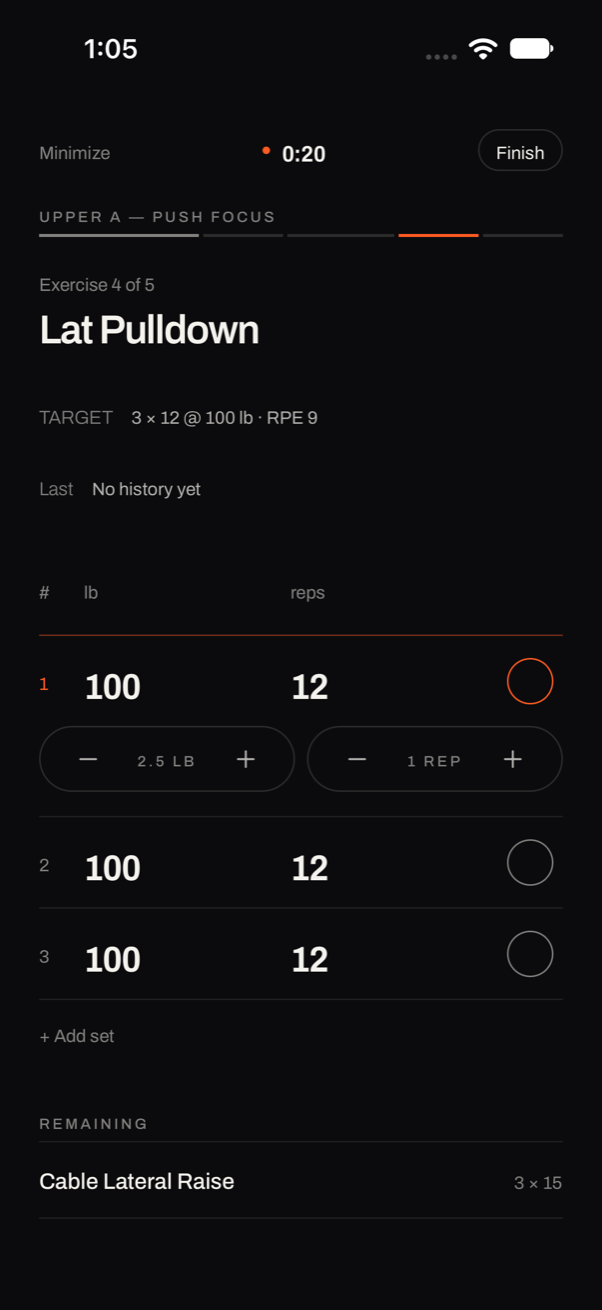
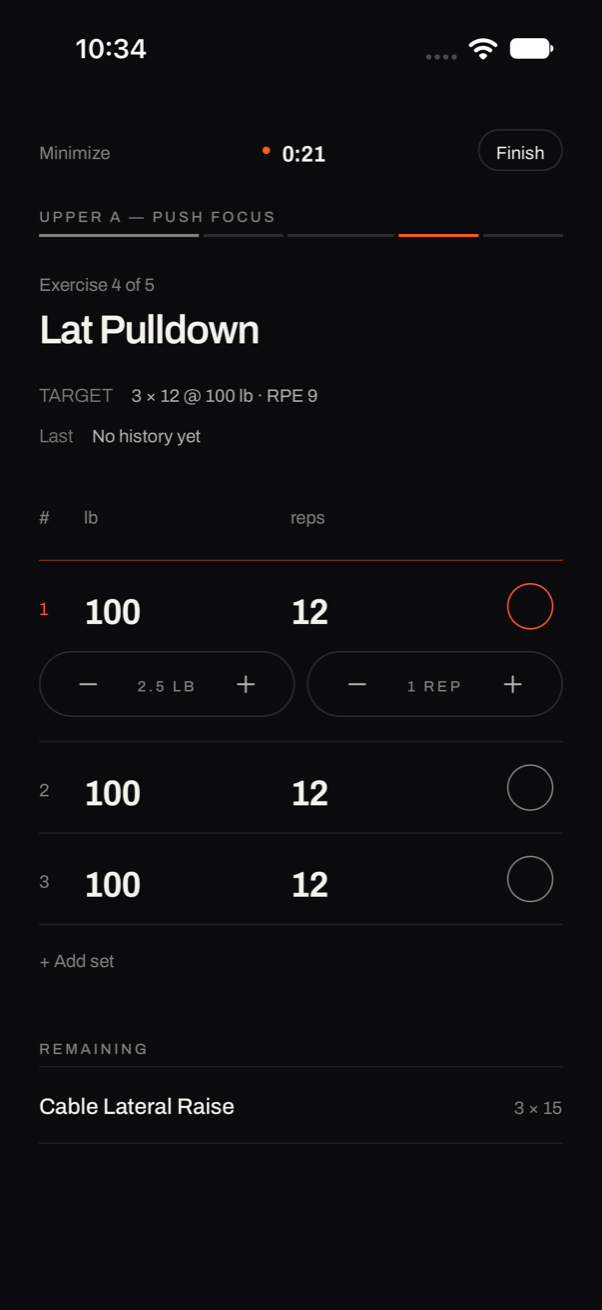
docs(workout): the notes and the screenshots of fix round 1 (F10 S5)
What changed per criterion, the four sanctioned edits to the tester's files,
the new tests and their mutants, the ten references re-recorded and why, the
one-second guard for the product owner, lines per file, the runs, and three
open questions. The fifteen screenshots are refreshed from the final build.

Claude-Session: https://claude.ai/code/session_015npsnSVLWhCqpwt8obusuV

diff --git a/tasks/features/F10-active-workout/implementation-notes.md b/tasks/features/F10-active-workout/implementation-notes.md
@@ -4667,3 +4667,180 @@ On the final tests, product code as at `f0318dd`. Simulator runs through the loc
 An earlier red run of mine was the test's, not the code's: the orange check compared the image's lines with
 frames the reader had placed elsewhere in its window (a marker over the page now gives its top), and the second
 touch of finding 6's test was first aimed at an element that no longer existed.
+
+## Slice S5 — fix round 1 (G1 implementer, 2026-10-10)
+
+On `2ff8d7c` (the slice, the tester's round and the rulings), in the worktree `F10-s5`. Criteria 13 to 21 are the
+brief's "Plan amendments — slice S5 after round 1". Code, tests and references are commit `f1719d6`; this section
+and the screenshots follow it. Paths are under `LedgerKit/` unless they start with `Apps/` or `tasks/`.
+
+### What changed, per criterion
+
+| Criterion | Change | Where |
+|---|---|---|
+| 13 reworded | The store's text now says what drops a tap: a refusal (with the alert), and "Discard" for the workout it ends; nothing else. | `WorkoutStore`'s type comment |
+| 14 Minimize keeps the taps before it (F10-S5-1) | With no tap waiting, "Minimize" closes the cover at once, as before. With taps waiting it sets `exitWhenDrained`; nothing answers meanwhile (the header and the page are disabled, as while a discard runs); the pump applies the taps and then closes the cover. **When one of them is refused the cover stays up** with the alert, so the lifter sees that a set was not saved; "Minimize" can be tapped again. No task outlives the view: the cover is still up while the taps are applied (each is one local write). | `WorkoutStore+Pump.swift` `minimize()`, `drain()` |
+| 15 a restart plans on the newest workout (F10-S5-2, -3) | `follow()` forgets `ahead` when it starts. The store knows whether it is hearing the session (`isHearingTheSession`: from the first update of the stream being followed until that stream is left); `drain()` applies nothing while it is not, and the first update wakes the pump. So a tap that waited is planned on the session's workout, in either order of the root's two tasks. | `WorkoutStore.follow()`, `drain()` |
+| 16 "REMAINING" lists only what can be logged (F10-S5-4, S-1) | After the shown exercise, only exercises with a set not logged; "n × m" counts the rows that are not drop sets (an added set still counts, rule 26). **With no exercise shown** (the cursor names no row and nothing was chosen) every exercise is still listed, so that one with no set can be reached for "+ Add set": the orchestrator's ruling on the tester's line 142. | `WorkoutPresentation.page` |
+| 17 the page starts at the top (F10-S5-5, S-2) | `WorkoutScreen` holds a `ScrollPosition`; when `page.card?.exerciseIndex` changes it scrolls to the top edge. A change within the exercise leaves the page where it is. The scroll view is the same view before and after (no `.id`), so VoiceOver's place is not thrown away with it. | `Views/WorkoutScreen.swift` |
+| 18 a second touch does not undo a set just logged (F10-S5-6, S-3) | In the plan: an un-log whose moment is at or after the set's `doneAt` and less than `WorkoutEditPlan.undoGuard` (one second) after it comes to nothing. A set logged by a clock ahead of this one (a peer's) is not guarded. Two moments are compared; nothing counts time. | `WorkoutEdit.swift` `unlog` |
+| 19 room between the two facts (S-5, N-9) | The two `FactLine`s stand `LedgerSpacing.m` apart at every size (`xs` inside one, where they stack). The 44 pt frames on the TARGET line and on the whole "Last" line are gone: neither is a control, and "Repeat" keeps its own 44 pt. | `Views/ExerciseCard.swift` |
+| 20 housekeeping | The plan's comment on the weight's floor says that the engine and the plan both hold it and why the plan must (N-4). The store's comments on the queue say what happens on a cancellation (N-2, below). The tester's test title reads 54 (sanctioned edit 4). | `WorkoutEdit.swift`, `WorkoutStore+Pump.swift` |
+
+Also changed, because the rulings touch it:
+
+- **A call cancelled with the cover counts as sent** (the orchestrator's ruling on my question; N-2): the tap in
+  flight is taken off the queue and is not sent again by the next pump, the drain stops there, and **the taps
+  behind it stay queued** for the next pump. The session's host completes a call in a task of its own, so the tap
+  is not lost on the app's host. Pinned by the tester's `pumpCancelled_whileACallWaits` (no alert, nothing
+  applied twice, the new pump carries on) and by mutant R9 below.
+- **A tap is not taken off a queue that was emptied and refilled while it was being applied** (the tester's note
+  N-b): the queue counts the times it was emptied as a whole (`queueEpoch`).
+- **The header's current segment** is the shown exercise while it has a set to log (one rule, with or without a
+  choice); no existing expectation changed.
+- **The pump is in `WorkoutStore+Pump.swift`** (the store's file passed the lint's 300 lines). For that, the
+  store's `dialog`, `selection`, `exitWhenDrained`, its queue fields, `leave`, `isShowingWorkout`, the logger and
+  three dependencies are no longer `private`: they are the store's own, used from its extension in another file,
+  and a comment says so. No other file writes them.
+
+**Not changed:** the reviewer's N-1 (a refusal over the finish dialog: S7's), N-5 and N-6 (where the rules live:
+when the watch needs them), N-7 and N-8 (the defaulted `selection:` and the `Dialog` alias: both are used by the
+tester's files), N-12 (accepted by the reviewer); the tester's notes N-a, N-c, N-d.
+
+### The tester's seven tests
+
+All pass unedited: `minimize_keepsTheTapsMadeBeforeIt`, `pumpRestarted_plansOnTheNewestWorkout`,
+`followRestarted_forgetsTheOldAnswer`, `jump_toAFinishedExercise_isNoDeadEnd`,
+`scroll_returnsToTheTop_whenTheExerciseChanges` (PR lane); `test_jumpFromRemaining_showsTheNewExercisesName`,
+`test_secondTouchOnTheSameCheck_doesNotLoseTheSet` (nightly). The UI test's two touches were inside the one-second
+guard on this run.
+
+### Sanctioned edits to the tester's files
+
+Three of the tester's green tests pinned what criteria 16 and 18 reverse, and one title named the old count. I
+reported each before touching it; the orchestrator ruled all four on 2026-10-10; the tester audits them in round
+2. In `Tests/FeatureWorkoutTests/Adversarial/`:
+
+| # | File and test | Old | New |
+|---|---|---|---|
+| 1 | `WorkoutPageAdversarialTests.page_isTotal` (line 156) | `#expect(listed == Array(state.exercises.indices.filter { $0 > card.exerciseIndex }), "seed \(seed)")` | under a comment, `let stillToDo = state.exercises.indices.filter { index in index > card.exerciseIndex && state.exercises[index].sets.contains { !$0.isDone } }` and `#expect(listed == Array(stillToDo), "seed \(seed)")`. Line 142 ("with no card every exercise is listed") is unchanged and passes |
+| 2 | `WorkoutPageAdversarialTests`, "Kilograms, twelve rows and a drop set in the middle…" (line 75) | `== ["Incline DB Press, 3 × 10"]` | `== ["Incline DB Press, 2 × 10"]` (two working sets and a drop set) |
+| 3 | `WorkoutWalkAdversarialTests.unlog_afterTheEnd_canBeLoggedAgain` (line 100) | `let bench = try await Bench.make()` | under a comment, `let bench = try await Bench.make { $0.exercises[1].sets[2].doneAt = Fixtures.now.addingTimeInterval(-60) }`: the set the test un-logs was logged a minute before, so the un-log is not a second touch. What the test checks is unchanged |
+| 4 | `WorkoutWordsAdversarialTests.catalog_holdsExactlyTheSlicesTexts` | `@Test("The catalog holds the 27 texts and no other")` | `@Test("The catalog holds the 54 texts and no other")` |
+
+No special case for 0 s exists in the product code. The tester's seeded storms also send un-logs at 0 s; they
+compare two runs under the same rule and stay green.
+
+### New tests
+
+| Criterion | Tests |
+|---|---|
+| 14 | `WorkoutStoreMinimizeTests.minimize_whileATapIsRefused_staysAndShowsIt` (the real host, an append refused: the cover stays, the alert shows, a tap made after Minimize was not queued, and with nothing waiting Minimize closes at once); the tester's `minimize_keepsTheTapsMadeBeforeIt` |
+| 15 | the tester's two |
+| 16 | `WorkoutPresentationRemainingTests.remaining_listsOnlyWhatCanBeLogged` (a later exercise with every set logged and one with no set are left out; with nothing left there is no list), `remaining_countsWithoutTheDropSet` (three sets and a drop read "3 × 12", as the card's target; an added set makes it "4 × 12"); `card_noSet_hasNoRow` changed to the new list |
+| 17 | the tester's hosted test; UI `WorkoutLogging` now asserts the title **hittable** after the cursor's move to the next exercise, after a jump, and at the accessibility size with "Exercise 5 of 5" |
+| 18 | `WorkoutUndoTests.unlog_withinASecondOfTheLog_comesToNothing` (pure, nine moments: 0, 0.001, 0.78 and 0.999 s do nothing; 1, 1.001 and 60 s un-log; a set logged 0.5 s and an hour ahead of this clock un-logs), `unlogRightAfterTheLog_keepsTheSet` (through the store, with the injected date); `mixedTaps_areAppliedInOrder` now expects the un-log made in the log's own moment to send nothing; `log_clearsTheChoice_unlogKeepsIt` un-logs a set logged a minute before |
+| 19 | `WorkoutPageLayoutTests.facts_standApart` (five sizes × both widths × Bold Text × right to left, with and without "Repeat": at least `m` between the two facts) |
+
+Moved, unchanged, for the lint's type length: the "REMAINING" tests into `WorkoutPresentationRemainingTests`, the
+un-log's plan test into `WorkoutUndoTests`.
+
+**Checked by breaking the code** (Mac host, each restored; all caught):
+
+| Mutant | Tests that failed |
+|---|---|
+| R1 an un-log always un-logs | `unlog_withinASecondOfTheLog_…`, `unlogRightAfterTheLog_keepsTheSet`, `mixedTaps_areAppliedInOrder` |
+| R2 the guard also holds for a set logged ahead of this clock | `unlog_withinASecondOfTheLog_…` |
+| R3 "REMAINING" lists finished exercises | `remaining_listsOnlyWhatCanBeLogged`, `card_noSet_hasNoRow`, the tester's `jump_toAFinishedExercise_isNoDeadEnd` and `page_isTotal` |
+| R4 "REMAINING" counts the drop set | `remaining_countsWithoutTheDropSet`, the tester's kilograms test |
+| R5 Minimize closes at once | `minimize_whileATapIsRefused_…`, the tester's `minimize_keepsTheTapsMadeBeforeIt` |
+| R6 the kept answer survives a new follow | the tester's `followRestarted_forgetsTheOldAnswer` |
+| R7 taps are planned before the stream is heard | the tester's `pumpRestarted_plansOnTheNewestWorkout` |
+| R8 a refusal under Minimize still closes the cover | `minimize_whileATapIsRefused_…` |
+| R9 a cancelled call is sent again | the tester's `pumpCancelled_whileACallWaits` |
+
+Not mutated: the scroll reset and the facts' spacing (a simulator run each); the tester's hosted scroll test and
+`facts_standApart` failed before the change and pass after it.
+
+### References and screenshots
+
+**Re-recorded: the ten references of this slice**, all of `__Snapshots__/WorkoutSnapshotTests/cover_*`, by deleting
+them and running `WorkoutSnapshotTests` once in the library's default mode (it wrote them and failed), then the
+whole module's suite (passed). Cause: criterion 19 (the gap between the two facts, and no 44 pt frame on them),
+which moves everything under the facts; nothing else in them changed. Looked at: at `.accessibility3` "Last" now
+stands 12 pt under the target's value and 4 pt over its own.
+
+- `cover_logging_matchesReferences.{light,dark}-{large,xLarge}.png` (4)
+- `cover_logging_accessibility3_matchesReference.dark-accessibility3.png`
+- `cover_logging_increasedContrast_matchesReference.light-large-increasedContrast.png`
+- `cover_dropSet_matchesReferences.{light,dark}-large.png` (2)
+- `cover_noHistory_matchesReferences.{light,dark}-large.png` (2)
+
+S4's five header references are unchanged and pass.
+
+`screenshots/s5/`: all fifteen refreshed from the final build (the ten of the running app from the UI test's
+attachments, light and dark; the five reference copies). `app-accessibility3-last-exercise-*` now shows
+"Exercise 5 of 5" and "Cable Lateral Raise" at the top of the page after the jump.
+
+### For the product owner
+
+- **The one-second guard** (criterion 18). The check of a set logged less than a second ago ignores a touch. The
+  prototype has no guard. Nothing is drawn differently during that second: a deliberate undo made that fast simply
+  does nothing, and works on the next touch.
+- **"Minimize" with a change still being saved** waits for it (the buttons dim for that moment), and stays on the
+  workout with "Couldn't save that change" if it fails.
+- No new text. No key was added to the catalog (54).
+
+### Product lines per file
+
+932 in total (877 before; the split is taken past about 1,000). Against `fc8a38f`; the change is this round's.
+
+| File | Lines | This round |
+|---|---|---|
+| `FeatureWorkout/WorkoutStore+Pump.swift` | 95 | new (the pump, moved and grown) |
+| `FeatureWorkout/WorkoutStore.swift` | 149 | −52 |
+| `FeatureWorkout/WorkoutEdit.swift` | 168 | +6 |
+| `FeatureWorkout/WorkoutPresentation+Card.swift` | 158 | +5 |
+| `FeatureWorkout/Views/WorkoutScreen.swift` | 35 | +5 |
+| `FeatureWorkout/Views/ExerciseCard.swift` | 60 | −2 |
+| `FeatureWorkout/WorkoutPresentation+Header.swift` | 46 | −2 |
+| **This round** | | **+55** |
+
+The reviewer expected about +20. The difference is criteria 14 and 15, which the review had as notes: the waiting
+Minimize, the "hearing" flag, the three-way outcome of a tap and the queue's count are about 40 lines.
+
+### Open questions
+
+1. **A stuck page is still possible from outside the page**: the lifter chooses a row of an exercise, and the
+   watch (F17) logs every set of that exercise. The choice stands until a set is logged here, the card shows that
+   exercise with nothing to log, and "REMAINING" lists only later exercises. One phone cannot reach it.
+   Recommendation: with S9 and the question of going back, let a choice give way when its exercise has nothing
+   left to log; I tried it in this round and withdrew it, because the tester's `noSet_addSet` pins that a chosen
+   exercise with no set shows its card.
+2. **"Minimize" waits on a call that never returns.** A host's apply is one local write; if one hung, the cover
+   would stay with its buttons dimmed, as a hung discard already does (S4's decision 12). Recommendation: accept.
+3. **The guard is one second from the set's `doneAt`, which is this device's clock at the log.** A set logged on
+   the watch less than a second ago is guarded here too when the clocks agree. Recommendation: accept.
+
+### The runs
+
+2026-10-10, on the code of `f1719d6` (only this file and the screenshots were added after it). Simulator runs
+through the lock, iPhone 17 (iOS 27.0) and Apple Watch Series 12 46 mm (watchOS 27.0).
+
+| Run | Result |
+|---|---|
+| `scripts/check.sh --fast` | exit 0 in 138 s |
+| `swift test --filter FeatureWorkoutTests` (Mac host) | 245 tests in 36 suites passed (6 s) |
+| `FeatureWorkoutTests` on the simulator (`PR` plan, `-only-testing`) | 286 tests in 42 suites passed (69 s), the tester's five PR-lane tests among them |
+| `LedgerUITests` `WorkoutLogging`, `WorkoutLoggingAdversarial`, `WorkoutAdversarial`, `WorkoutConflictAdversarial` (`Nightly` plan, `-only-testing`, one run) | 7 of 7 passed in 193 s: 2, 3, 1 and 1. `WorkoutLogging` once more in dark for the screenshots: 2 of 2 |
+| `scripts/check.sh` (the full gate) | exit 0 in 842 s, no failing test: lint 86 s, iOS tests 480 s, watchOS tests 250 s, coverage (FeatureWorkout 1,776 of 1,796 lines, 98.88 %) |
+| Nine mutants (Mac host) | each caught (table above) |
+
+Red runs on the way were mine: the first form of `facts_standApart` had an upper bound that "Repeat"'s 44 pt row
+breaks by design (removed); the ten references before they were re-recorded.
+
+### Not verified
+
+- The rest of the `Nightly` plan; CI (nothing is pushed); VoiceOver on a device, in particular where its focus
+  goes when the page returns to its top; a refused change and a waiting Minimize in the running app (no Debug row
+  slows or fails a store); the one-second guard by hand.
